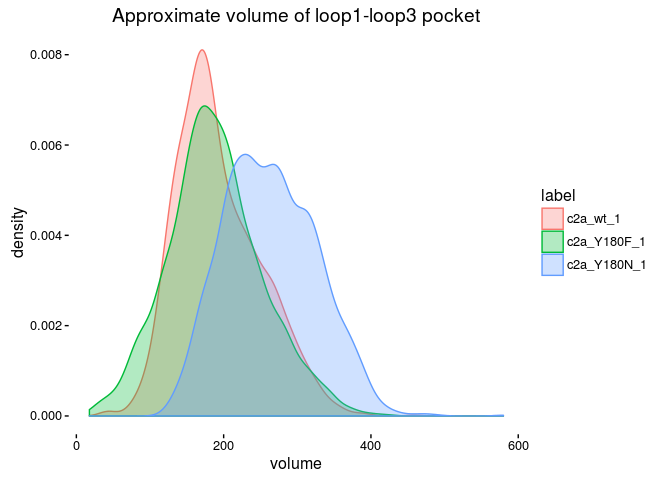
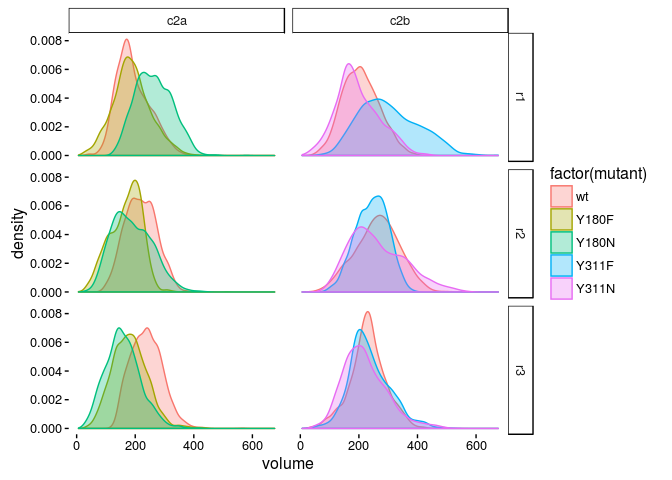
added some plots

diff --git a/analysis/volume.py b/analysis/volume.py
@@ -40,7 +40,7 @@ class Volume(Analysis):
       i = i+1
       points = []    
       for res in s:
-        points.append(u.select_atoms("resid " + str(res) + " and name CA")[0].position)
+        points.extend([atom.position for atom in u.select_atoms("resid " + str(res) + " and name CA")])
       hull = ConvexHull(points)
       name = os.path.basename(dcd)[:-4].split('_')
       row = [i, hull.volume, name[0], name[1], name[2]]
@@ -50,7 +50,7 @@ class Volume(Analysis):
   def write(self, data, filename="out.data"):
     print ('frame volume c2 mutant run')
     for row in data:
-      print(str(row[0]) + ' ' + str(row[1]) + ' ' + row[2])
+      print(str(row[0]) + ' ' + str(row[1]) + ' ' + row[2] + ' ' + row[3] + ' ' + row[4])
 
 v = Volume()
 v.prun()

diff --git a/analysis/distance.py b/analysis/distance.py
@@ -43,7 +43,7 @@ class Distance(Analysis):
   def write(self, data, filename="out.data"):
     print('frame distance c2 mutant run')
     for row in data:
-      print(str(row[0]) + ' ' + str(row[1]) + ' ' + row[2])
+      print(str(row[0]) + ' ' + str(row[1]) + ' ' + row[2] + ' ' + row[3] + ' ' + row[4])
 
 d = Distance()
 d.prun()

diff --git a/README.md b/README.md
@@ -73,6 +73,8 @@ The volume of the pocket between loops 1 and 3 was defined by 3 c alphas on each
 
 ![](README_files/figure-markdown_github/unnamed-chunk-4-1.png)
 
+![](README_files/figure-markdown_github/unnamed-chunk-5-1.png)
+
 ### RMSD and RMSF
 
 ### Ramachandran
